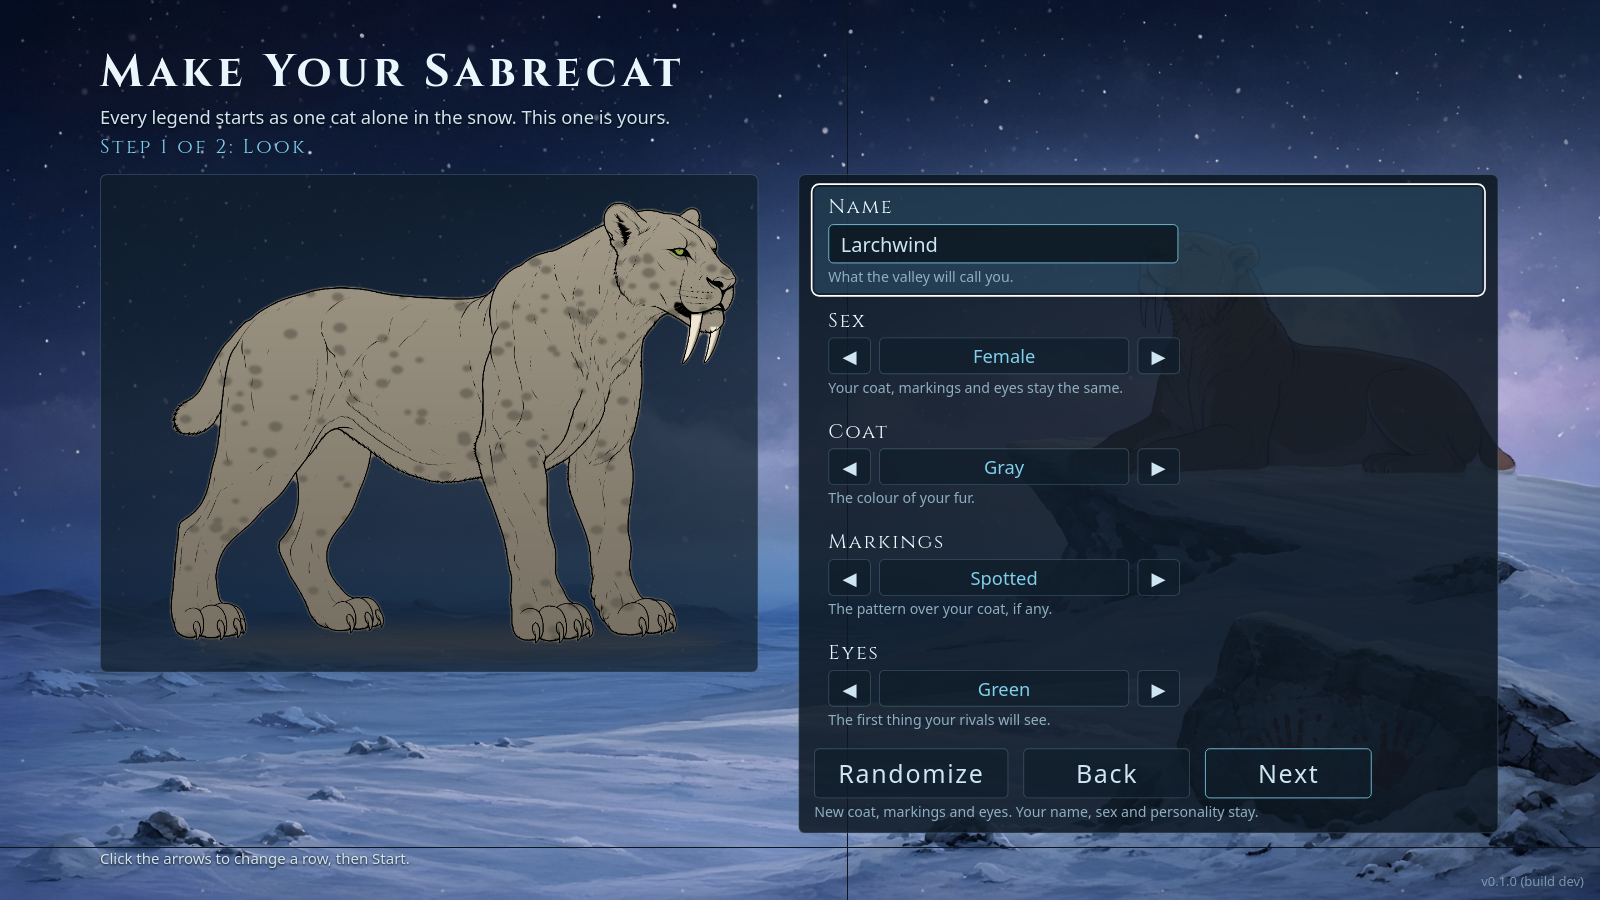
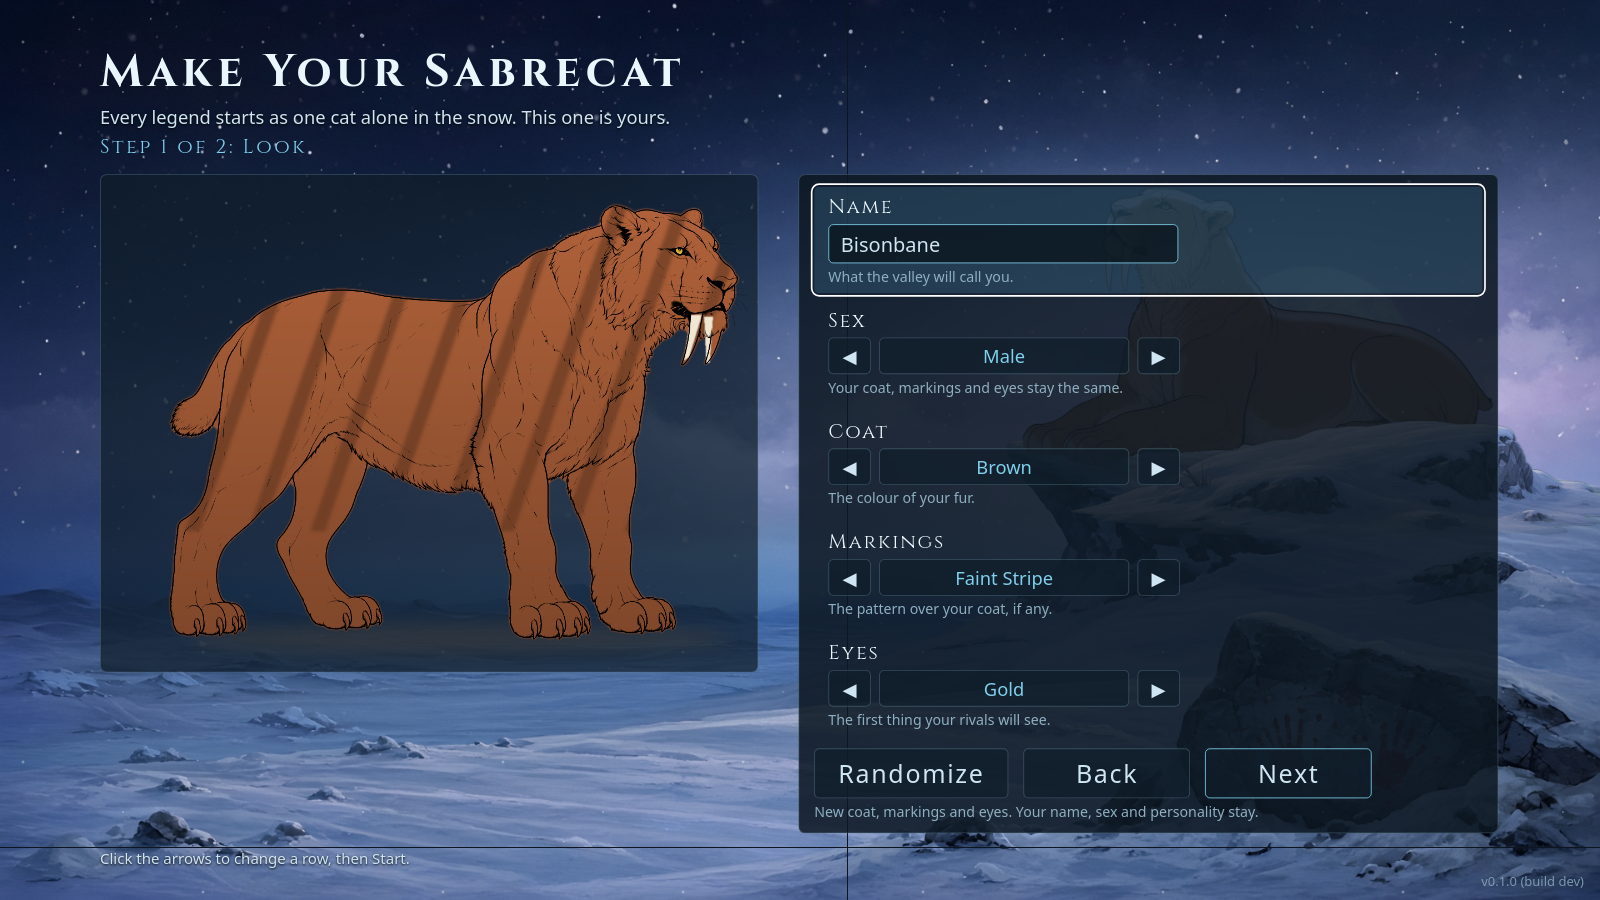
Hide freePerkRespec toggle until respec exists

diff --git a/test/copy-sync.test.js b/test/copy-sync.test.js
@@ -2,7 +2,7 @@ const test = require('node:test');
 const assert = require('node:assert');
 const fs = require('fs'); const path = require('path');
 const { parseCopy } = require('../scripts/sync-copy');
-const { SANDBOX_OPTIONS } = require('../src/main/saves-store');
+const { SANDBOX_OPTIONS, DEFERRED_SANDBOX_OPTIONS } = require('../src/main/saves-store');
 const root = path.join(__dirname, '..');
 const parsed = parseCopy(fs.readFileSync(path.join(root, 'docs/main-menu-copy.md'), 'utf8'));
 
@@ -10,7 +10,8 @@ test('committed menu-copy.json is in sync with Saga\'s doc', () => {
   assert.deepStrictEqual(JSON.parse(fs.readFileSync(path.join(root, 'src/renderer/data/menu-copy.json'), 'utf8')), parsed);
 });
 test('sandbox panel ids/values match the store; labels and descriptions per value', () => {
-  const opts = parsed.sandboxPanel.options;
+  // Deferred toggles keep their copy but don't ship (saves-store DEFERRED_SANDBOX_OPTIONS); any other unknown id still fails.
+  const opts = parsed.sandboxPanel.options.filter((o) => !DEFERRED_SANDBOX_OPTIONS.includes(o.id));
   assert.deepStrictEqual(opts.map((o) => o.id), Object.keys(SANDBOX_OPTIONS));
   for (const o of opts) {
     assert.deepStrictEqual(o.values, SANDBOX_OPTIONS[o.id].values);
@@ -25,4 +26,14 @@ test('parseCopy rejects missing sections and mismatched labels', () => {
   const bad = '```json\n' + JSON.stringify({ taglines: [], storytellerModes: [], difficulties: [], playStyles: [],
     sandboxPanel: { options: [{ id: 'x', values: [1, 2], labels: ['a'] }] }, strings: {} }) + '\n```';
   assert.throws(() => parseCopy(bad), /mismatch/);
+});
+test('deferred Sandbox toggles keep their copy but are not shipped (freePerkRespec hidden until respec exists)', () => {
+  const { visibleSandboxOptions, normalizeSandboxOptions } = require('../src/main/saves-store');
+  for (const id of DEFERRED_SANDBOX_OPTIONS) {
+    assert.ok(parsed.sandboxPanel.options.some((o) => o.id === id), `${id} copy still synced`);
+    assert.ok(!(id in SANDBOX_OPTIONS));
+    assert.ok(!visibleSandboxOptions(parsed.sandboxPanel.options).some((o) => o.id === id), `${id} not rendered`);
+    assert.ok(!(id in normalizeSandboxOptions({ [id]: true })), `${id} never stored`);
+  }
+  assert.strictEqual(visibleSandboxOptions(parsed.sandboxPanel.options).length, 4);
 });

diff --git a/src/main/saves-store.js b/src/main/saves-store.js
@@ -18,9 +18,16 @@ const SANDBOX_OPTIONS = Object.freeze({
   needsDrain: { values: ['off', 'low', 'normal'], default: 'normal' },
   threatFrequency: { values: ['off', 'low', 'normal'], default: 'normal' },
   startingReputation: { values: ['low', 'normal', 'high'], default: 'normal' },
-  freeCustomization: { values: [true, false], default: true },
-  freePerkRespec: { values: [true, false], default: false }   // main-menu-spec v1.4.3, skills-spec §7.6 (off by default)
+  freeCustomization: { values: [true, false], default: true }
 });
+/**
+ * Sandbox options Saga has copy for that are hidden until something reads them (Director: no toggles that do nothing).
+ * They stay in menu-copy.json (copy-sync) but are filtered out of the panel and never stored. Move one into SANDBOX_OPTIONS to ship it.
+ *   freePerkRespec: main-menu-spec v1.4.3 / skills-spec §7.6 (default off), deferred until perk respec exists.
+ */
+const DEFERRED_SANDBOX_OPTIONS = Object.freeze(['freePerkRespec']);
+/** Copy option list → only the options the store ships (drops deferred ones). */
+const visibleSandboxOptions = (copyOptions) => copyOptions.filter((o) => Object.prototype.hasOwnProperty.call(SANDBOX_OPTIONS, o.id));
 const defaultSandboxOptions = () => Object.fromEntries(Object.entries(SANDBOX_OPTIONS).map(([k, v]) => [k, v.default]));
 
 /** Unknown keys dropped, invalid values replaced by defaults. */
@@ -163,4 +170,4 @@ function createSavesStore(dir, { log = () => {}, gameVersion = '0.1.0', now = ()
   };
 }
 
-module.exports = { normalizeMainCat, MAIN_CAT_FIELDS, STYLES, DIFFICULTIES, DEFAULT_STYLE, createSavesStore, SaveCapError, SANDBOX_OPTIONS, normalizeSandboxOptions, defaultSandboxOptions, RUN_SLOTS, SAVES_PER_RUN };
+module.exports = { DEFERRED_SANDBOX_OPTIONS, visibleSandboxOptions, normalizeMainCat, MAIN_CAT_FIELDS, STYLES, DIFFICULTIES, DEFAULT_STYLE, createSavesStore, SaveCapError, SANDBOX_OPTIONS, normalizeSandboxOptions, defaultSandboxOptions, RUN_SLOTS, SAVES_PER_RUN };

diff --git a/test/nav.test.js b/test/nav.test.js
@@ -3,12 +3,12 @@ const test = require('node:test');
 const assert = require('node:assert');
 const Nav = require('../src/renderer/js/nav');
 const copy = require('../src/renderer/data/menu-copy.json');
-const { SANDBOX_OPTIONS } = require('../src/main/saves-store');
+const { SANDBOX_OPTIONS, visibleSandboxOptions } = require('../src/main/saves-store');
 
 const STYLES = copy.playStyles.map((d) => d.id);          // story, standard, sim
 const DEATHS = copy.difficulties.map((d) => d.id);        // permadeath, heir, sandbox
-const DEFS = copy.sandboxPanel.options.map((o) => ({ ...o, default: SANDBOX_OPTIONS[o.id].default }));
-const DEFAULT_OPTS = { needsDrain: 'normal', threatFrequency: 'normal', startingReputation: 'normal', freeCustomization: true, freePerkRespec: false };   // v1.4.3
+const DEFS = visibleSandboxOptions(copy.sandboxPanel.options).map((o) => ({ ...o, default: SANDBOX_OPTIONS[o.id].default }));
+const DEFAULT_OPTS = { needsDrain: 'normal', threatFrequency: 'normal', startingReputation: 'normal', freeCustomization: true };
 const init = () => Nav.setupInit(STYLES, DEATHS, DEFS);
 function run(actions, s = init()) {
   let effect = null;
@@ -83,7 +83,7 @@ test('Sandbox toggles: Left/Right/Enter and LB/RB cycle; Left at first value ret
   s = run(['tabPrev'], s).s; assert.strictEqual(s.opts.needsDrain, 'off');
   s = run(['left'], s).s; assert.strictEqual(s.focus, 'death:sandbox');
   s = run(['down', 'tabNext', 'right', 'confirm'], s).s; assert.strictEqual(s.opts.needsDrain, 'off'); // off→low→normal→off
-  const { effect } = run(['down', 'down', 'down', 'down', 'down', 'confirm'], s);   // 5 toggles (v1.4.3), then Begin
+  const { effect } = run(['down', 'down', 'down', 'down', 'confirm'], s);
   assert.deepStrictEqual(effect.sandboxOptions, { ...DEFAULT_OPTS, needsDrain: 'off' });
 });
 test('deselecting Sandbox hides the panel; focus never strands on a hidden toggle', () => {

diff --git a/test/e2e/menu.e2e.js b/test/e2e/menu.e2e.js
@@ -24,7 +24,7 @@ const waitState = (page, state) => page.waitForFunction((s) => window.__menuDebu
   const STYLES = ['story', 'standard', 'sim']; const DEATHS = ['permadeath', 'heir', 'sandbox'];
   const horiz = (from, to, list) => { const d = list.indexOf(to) - list.indexOf(from); return Array(Math.abs(d)).fill(d < 0 ? 'ArrowLeft' : 'ArrowRight'); };
   const keysFor = (style, death) => [...horiz('standard', style, STYLES), 'Enter', 'ArrowDown', ...horiz('heir', death, DEATHS), 'Enter', 'ArrowDown',
-    ...(death === 'sandbox' ? Array(5).fill('ArrowDown') : []), 'Enter'];   // 5 Sandbox toggles (v1.4.3 adds Free perk respec)
+    ...(death === 'sandbox' ? Array(4).fill('ArrowDown') : []), 'Enter'];
   // All 9 Style × Death rule combinations, by keyboard, two per app instance (slot 0 then slot 1).
   const combos = STYLES.flatMap((st) => DEATHS.map((d) => [st, d]));
   for (let i = 0; i < combos.length; i += 2) {
@@ -359,6 +359,8 @@ const waitState = (page, state) => page.waitForFunction((s) => window.__menuDebu
         assert.strictEqual((await model(page)).traits.aggression, 0);
         await page.screenshot({ path: path.join(root, 'screenshots', 'creator-personality-sandbox.png') });
         await page.keyboard.press('Escape'); await page.keyboard.press('Escape'); await waitState(page, 'newGameSetup');
+        assert.strictEqual(await page.locator('#sandbox-rows .opt').count(), 4, 'four Sandbox toggles');
+        assert.strictEqual(await page.locator('[data-opt="freePerkRespec"]').count(), 0, 'freePerkRespec hidden until respec exists');
         // Sandbox panel: Free Customization is the 4th toggle; turn it Off, then Begin again
         await page.evaluate(() => document.querySelector('[data-nav="opt:freeCustomization"]').click()); await page.waitForTimeout(50);
         assert.strictEqual((await st(page)).setup.opts.freeCustomization, false);

diff --git a/src/main/main.js b/src/main/main.js
@@ -6,7 +6,7 @@ const { app, BrowserWindow, ipcMain, net } = require('electron');
 const fs = require('fs');
 const path = require('path');
 const { createSettingsStore } = require('./settings-store');
-const { createSavesStore, SANDBOX_OPTIONS } = require('./saves-store');
+const { createSavesStore, SANDBOX_OPTIONS, visibleSandboxOptions } = require('./saves-store');
 const { createMenuHandlers } = require('./menu-handlers');
 const I18n = require('../renderer/js/i18n');
 const { DEFAULTS: SETTINGS_DEFAULTS } = require('./settings-store');
@@ -151,7 +151,8 @@ function loadPortrait(pose) {
 /** Copy for renderer: Saga's generated JSON + option defaults from the store + settings defaults (for per-tab reset). */
 function loadCopy() {
   const c = JSON.parse(fs.readFileSync(path.join(__dirname, '..', 'renderer', 'data', 'menu-copy.json'), 'utf8'));
-  c.sandboxPanel.options = c.sandboxPanel.options.map((o) => ({ ...o, default: SANDBOX_OPTIONS[o.id].default }));
+  c.sandboxPanel.options = visibleSandboxOptions(c.sandboxPanel.options).map((o) =>   // deferred toggles (freePerkRespec) don't render
+    ({ ...o, default: SANDBOX_OPTIONS[o.id].default }));
   c.settingsDefaults = SETTINGS_DEFAULTS;
   return c;
 }

diff --git a/docs/architecture.md b/docs/architecture.md
@@ -76,8 +76,8 @@ current files are placeholders from `scripts/gen-placeholder-portraits.py`). Dev
   `Compositor.compose(..., {tintCache})` caches tinted layers per file+tint, so a change redraws in ≈10–35 ms (§2.3 asks ≤ 100 ms).
 - **Start:** `menu:newGame {style, difficulty, replaceRunId?, sandboxOptions?, mainCat}`. `src/main/main-cat.js` `validateMainCat` re-checks every field
   (range per Death rule/Sandbox option) and returns the save-meta snapshot and the run's full Cat record (`playerCat`); invalid → `toast.startFailed`, no deletion.
-- **Sandbox options (v1.4.3):** the copy sync brought Saga's `freePerkRespec` toggle, so `SANDBOX_OPTIONS` gained `freePerkRespec {values: [true, false], default: false}`
-  (store/copy ids must match). The panel renders it from copy; nothing reads it yet (skills-spec §7.6 is gameplay).
+- **Sandbox options (v1.4.3):** Saga's `freePerkRespec` copy is synced but the toggle is **hidden** until perk respec exists (Director): it is listed in
+  `DEFERRED_SANDBOX_OPTIONS` (saves-store), `visibleSandboxOptions()` drops it from the panel in `main.js loadCopy`, it is never stored, and copy-sync skips it.
 - **Copy:** only `creator.*` / `common.back` / `run.defaultCatName` ids via `t()`; no `[PH]` strings. `test/strings.test.js` expands the creator templates.
 - **Tests:** `test/creator.test.js` (model + validator), `test/menu-handlers.test.js` (Start with mainCat, replacement only on Start),
   e2e creator blocks (§7 checks 1–11, keyboard/mouse/fake-gamepad, 72 looks, Sandbox 0–100) and the creator screens in the N1 fit block.
